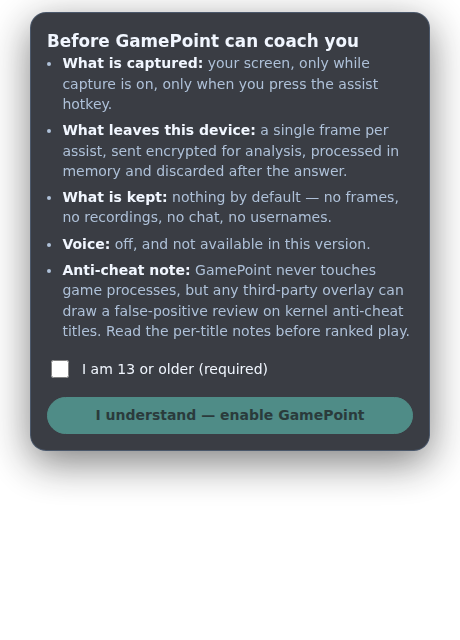
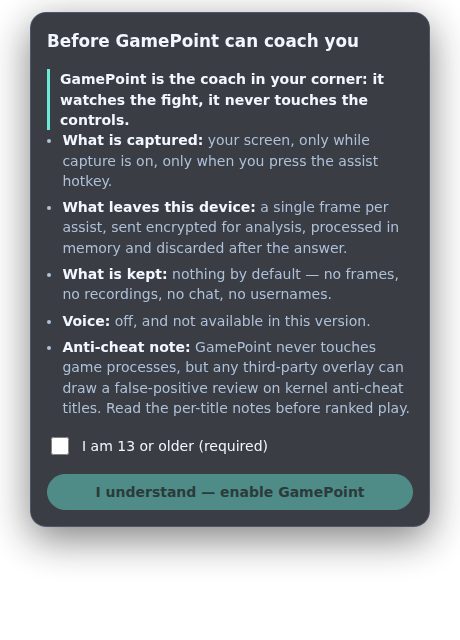
Design: apply voice & perception framework — 3-second HUD hierarchy (DOM-order verified), red=recording color law, voice lexicon lint, cornerman metaphor at both category-formation surfaces, truthful web title registry
Claude-Session: https://claude.ai/code/session_011fb9TMDahdJCWZVvp6gBJA

diff --git a/apps/web/src/main.tsx b/apps/web/src/main.tsx
@@ -2,7 +2,7 @@ import React from 'react';
 import { createRoot } from 'react-dom/client';
 import './styles.css';
 
-type TitleState = 'supported' | 'blocked';
+type TitleState = 'supported' | 'paused' | 'registry';
 
 type TitleCard = {
   name: string;
@@ -10,38 +10,71 @@ type TitleCard = {
   note: string;
 };
 
+// Mirrors supabase/seed/seed.sql — a title appears as supported here only when
+// runtime_eligible=true and compliance_status='cleared' in the registry.
 const titles: TitleCard[] = [
-  {
-    name: 'Verified titles',
-    state: 'blocked',
-    note: 'UNCERTAIN: title research report is absent; runtime support remains paused until cleared.',
-  },
-  {
-    name: 'Grand Theft Auto VI',
-    state: 'blocked',
-    note: 'Registry only. Legal and compliance review is required before runtime support.',
-  },
+  { name: 'Path of Exile 2', state: 'supported', note: 'Official API sources. Anti-cheat class recorded as server-side (inference).' },
+  { name: "Baldur's Gate 3", state: 'supported', note: 'Cleared. CC-BY-SA wiki and official patch notes.' },
+  { name: 'Elden Ring / Nightreign', state: 'supported', note: 'Cleared. Low-risk tier; EAC is disableable offline.' },
+  { name: 'Monster Hunter Wilds', state: 'supported', note: 'Official update notes. Publisher stance under continued review.' },
+  { name: 'Warframe', state: 'supported', note: 'Cleared. Official Public Export data.' },
+  { name: 'Diablo IV', state: 'paused', note: 'Paused until publisher terms review completes. Nothing is captured for paused titles.' },
+  { name: 'Grand Theft Auto VI', state: 'registry', note: 'Registry only until after launch and legal review. No coaching claims before there is a game to verify against.' },
 ];
+
+const stateLabel: Record<TitleState, string> = {
+  supported: 'Supported',
+  paused: 'Paused — terms review',
+  registry: 'Registry only',
+};
 
 function App(): React.JSX.Element {
   return (
     <main>
       <section className="hero">
         <p className="eyebrow">Screen-only coaching for PC play</p>
-        <h1>GamePoint gives short, visible-screen advice without touching your game.</h1>
-        <p className="lede">The Windows overlay stays local, capture starts only after consent, and unsupported titles stay paused until compliance review clears them.</p>
-        <div className="actions"><a href="#download">Download for Windows</a><a href="#privacy" className="secondary">Read privacy boundary</a></div>
+        <h1>The coach in your corner: it watches the fight, it never touches the controls.</h1>
+        <p className="lede">
+          GamePoint reads only what is on your screen, only when you ask, and answers with
+          evidence-backed coaching. No injection, no memory reads, no input automation —
+          engineered that way, verified in CI, enforced in the database schema.
+        </p>
+        <div className="actions">
+          <a href="#download">Download for Windows</a>
+          <a href="#privacy" className="secondary">Read the privacy boundary</a>
+        </div>
       </section>
       <section id="privacy" className="grid">
-        <article><h2>What it does</h2><p>Processes one user-triggered frame or region of interest through the approved Supabase assist path.</p></article>
-        <article><h2>What it never does</h2><p>No game injection, memory reads, packet hooks, microphone capture, system audio capture, or Cloudflare frame streaming.</p></article>
-        <article><h2>Your evidence view</h2><p>Session summaries show safe metadata and evidence status, not raw frame content or private chat text.</p></article>
+        <article>
+          <h2>What it does</h2>
+          <p>On your hotkey, one frame is analyzed against the title&apos;s verified knowledge pack. Every claim carries its evidence or is marked &quot;Not verified.&quot;</p>
+        </article>
+        <article>
+          <h2>What it never does</h2>
+          <p>No game injection, memory reads, packet hooks, input automation, microphone or system-audio capture. In competitive play it coaches decisions — it never reveals what you could not see yourself.</p>
+        </article>
+        <article>
+          <h2>What is kept</h2>
+          <p>Nothing by default. Frames are processed in memory and discarded. Telemetry is operational metadata only — no frame content, usernames, or chat.</p>
+        </article>
       </section>
       <section id="titles">
-        <h2>Supported title status</h2>
-        <div className="cards">{titles.map((title) => <article key={title.name} className="card"><strong>{title.name}</strong><span>{title.state === 'supported' ? 'Supported' : 'Not runtime supported'}</span><p>{title.note}</p></article>)}</div>
+        <h2>Title status</h2>
+        <p className="lede">A title is listed as supported only after a logged compliance review. Paused means paused — capture stays off for that game.</p>
+        <div className="cards">
+          {titles.map((title) => (
+            <article key={title.name} className="card">
+              <strong>{title.name}</strong>
+              <span>{stateLabel[title.state]}</span>
+              <p>{title.note}</p>
+            </article>
+          ))}
+        </div>
       </section>
-      <section id="download" className="download"><h2>Install path</h2><p>Windows installer publishing is prepared in later work packages. Until then, deployment remains local-only and release-gated.</p></section>
+      <section id="download" className="download">
+        <h2>Install path</h2>
+        <p>The signed Windows installer ships with the v1.0 release gate. Until then, builds are local-only and release-gated.</p>
+      </section>
     </main>
   );
 }

diff --git a/apps/overlay/src/App.tsx b/apps/overlay/src/App.tsx
@@ -33,6 +33,10 @@ function ConsentScreen({ dispatch }: { dispatch: React.Dispatch<Action> }) {
   return (
     <section className="card flow" aria-labelledby="consent-title">
       <h1 id="consent-title">Before GamePoint can coach you</h1>
+      <p className="metaphor">
+        GamePoint is the coach in your corner: it watches the fight, it never touches the
+        controls.
+      </p>
       <ul className="plain">
         <li><strong>What is captured:</strong> your screen, only while capture is on, only when you press the assist hotkey.</li>
         <li><strong>What leaves this device:</strong> a single frame per assist, sent encrypted for analysis, processed in memory and discarded after the answer.</li>
@@ -87,11 +91,12 @@ function AdviceBody({ state }: { state: OverlayState }) {
   const { hud } = state;
   switch (hud.kind) {
     case 'idle':
+      // The status word already says Watching/Capture off — no redundancy here.
       return (
         <p className="muted">
           {state.captureActive
-            ? 'Watching. Press your assist hotkey at any decision point.'
-            : 'Capture is off. Nothing is being watched.'}
+            ? 'Press your assist hotkey at any decision point.'
+            : 'Nothing is being watched. Start capture when you are ready.'}
         </p>
       );
     case 'thinking':
@@ -141,22 +146,26 @@ function AdviceBody({ state }: { state: OverlayState }) {
   }
 }
 
+/** Tier-1 status word: absolute certainty of what the system is doing right now. */
+function statusWord(state: OverlayState): string {
+  if (state.hud.kind === 'offline') return 'Offline';
+  return state.captureActive ? 'Watching' : 'Capture off';
+}
+
 function Hud({ state, dispatch }: { state: OverlayState; dispatch: React.Dispatch<Action> }) {
   const advice = state.hud.kind === 'advice' ? state.hud.response : null;
   const tier = advice ? confidenceTier(advice.confidence) : null;
   return (
     <section className="card flow" aria-label="GamePoint coaching HUD">
+      {/* 3-second sequence, tier 1: system status — text + indicator, never color alone. */}
       <header className="hud-bar">
-        <span
-          className={`capture-indicator ${state.captureActive ? 'on' : ''}`}
-          role="status"
-          aria-label={state.captureActive ? 'Capture active' : 'Capture off'}
-          title={state.captureActive ? 'Capture active' : 'Capture off'}
-        />
-        <strong>GamePoint</strong>
-        {state.settings.playstyle && (
-          <span className="badge subtle">{personaLabel(state.settings.playstyle)}</span>
-        )}
+        <span className="status" role="status">
+          <span
+            className={`capture-indicator ${state.captureActive ? 'on' : ''}`}
+            aria-hidden="true"
+          />
+          {statusWord(state)}
+        </span>
         <span className="spacer" />
         <button
           className="ghost"
@@ -166,7 +175,7 @@ function Hud({ state, dispatch }: { state: OverlayState; dispatch: React.Dispatc
           {state.settings.muted ? 'Unmute' : 'Mute'}
         </button>
         <button className="ghost" onClick={() => dispatch({ type: 'capture/toggle' })}>
-          {state.captureActive ? 'Pause capture' : 'Start capture'}
+          {state.captureActive ? 'Pause' : 'Start capture'}
         </button>
       </header>
 
@@ -188,6 +197,11 @@ function Hud({ state, dispatch }: { state: OverlayState; dispatch: React.Dispatc
       <details className="settings">
         <summary>Session &amp; settings</summary>
         <div className="flow-tight">
+          {state.settings.playstyle && (
+            <p className="muted">
+              Coaching style: <span className="badge subtle">{personaLabel(state.settings.playstyle)}</span>
+            </p>
+          )}
           <p className="muted">
             This session: {state.session.adviceCount} tip{state.session.adviceCount === 1 ? '' : 's'} ·{' '}
             {state.session.verifiedCount} evidence-backed · {state.session.refusals} refused by

diff --git a/apps/overlay/src/styles.css b/apps/overlay/src/styles.css
@@ -90,6 +90,9 @@ input[type='range'] { flex: 1; accent-color: var(--accent); }
 .advice { font-size: 1.02rem; }
 .action { color: var(--accent); font-weight: 600; }
 
+.status { display: inline-flex; align-items: center; gap: 8px; font-weight: 700; }
+.metaphor { color: var(--text); font-weight: 600; border-left: 3px solid var(--accent); padding-left: var(--space-2); }
+
 .capture-indicator {
   width: 10px; height: 10px; border-radius: 50%;
   background: var(--text-muted);
@@ -123,9 +126,11 @@ input[type='range'] { flex: 1; accent-color: var(--accent); }
   color: var(--text-muted);
 }
 .chip-dot { width: 8px; height: 8px; border-radius: 50%; }
+/* Color law (docs/design/voice-and-perception.md §2): red belongs to the capture
+   indicator alone. Confidence is information, not alarm. */
 .conf-high { color: var(--ok); }    .conf-high .chip-dot { background: var(--ok); }
 .conf-medium { color: var(--warn); } .conf-medium .chip-dot { background: var(--warn); }
-.conf-low { color: var(--danger); }  .conf-low .chip-dot { background: var(--danger); }
+.conf-low { color: var(--text-muted); } .conf-low .chip-dot { background: var(--text-muted); }
 
 .settings summary { cursor: pointer; color: var(--text-muted); }
 .settings[open] summary { margin-bottom: var(--space-2); }

diff --git a/docs/design/voice-and-perception.md b/docs/design/voice-and-perception.md
@@ -1,0 +1,51 @@
+# GamePoint Voice & Perception Framework
+
+Design here is a deterministic communication layer, not decoration. These four rules are
+extracted from the APEX visual-communication framework and bound to GamePoint's context —
+a player mid-session, adrenaline up, attention split between the game and the HUD.
+Enforced by: `apps/overlay/src/voice.test.mjs` (lexicon + encoding lint, CI) and
+`apps/overlay/scripts/perception-check.mjs` (rendered-order check, evidence).
+
+## 1. The 3-Second Sequence (perception gap)
+A player glancing at the HUD for three seconds must register, in this exact order:
+1. **System status** — absolute certainty first: "Watching" / "Capture off" / "Offline",
+   as text + indicator, never color alone.
+2. **The advice** — the single most valuable decision now, visually dominant.
+3. **Adjustment** — mute, pause, settings; quiet, reachable, never competing.
+
+Anything that doesn't serve one of those three tiers is stripped. If an element needs
+explanation, the design has failed — confusion is objective. (Applied: the persona badge
+was removed from the header — it's identity metadata, not a 3-second need — and lives in
+settings.)
+
+## 2. Predictive Empathy (calm under pressure)
+The user is not analyzing pixels; they are mid-fight. The interface meets them there and
+moves them from chaos toward calm control:
+- **Color law: red means "recording" and nothing else.** The capture indicator owns red.
+  Errors, low confidence, and offline states never shout — they use muted tones and give
+  a diagnostic next step ("queued, will send when the connection returns"), not pressure.
+- Degraded inference ("no advice this frame") is a designed state with a recovery hint,
+  visually indistinguishable in temperature from idle.
+- Low confidence is information, not alarm: gray, labeled, honest.
+
+## 3. Voice Lexicon (identity upstream of pixels)
+GamePoint's voice is a cornerman between rounds: precise, calm, evidence-led.
+- **Never says:** magic, easy, cheap, playful, disruptive, effortless, instantly,
+  guaranteed, unbeatable, "win more".
+- **Operates by:** deterministic, engineered, verified, evidence-backed, calm, precise,
+  paused (never "broken"), cleared (never "unlocked").
+- The truth bar is voice: "Not verified:" is spoken plainly, styled visibly, never hidden.
+- Scope: all user-facing copy (overlay, web, consent, store listings). Game vocabulary
+  inside coaching content (e.g. "magic resist") is domain language, not brand voice, and
+  is exempt.
+
+## 4. Memory Encoding (the metaphor)
+GamePoint is not "an overlay" or "an assistant" — commodity categories. The lasting
+mental model:
+
+> **The coach in your corner: it watches the fight, it never touches the controls.**
+
+One sentence that encodes the entire compliance architecture (screen-vision only, no
+injection, no automation, decision-support not sensory augmentation) as a psychological
+twist. It appears verbatim at first-run consent and on the web landing — the two moments
+of category formation — and nowhere else, so it stays sharp.

diff --git a/docs/evidence/ui-audit.md b/docs/evidence/ui-audit.md
@@ -24,3 +24,12 @@
 - `node --test`: 11/11 green (state machine, blocking age gate, degrade/refusal/offline/unsupported states, opacity clamp, persistence fallback).
 - `tsc --noEmit` clean, `vite build` clean.
 - UNCERTAIN: not run — Tauri 2.x shell packaging (always-on-top frameless PiP window) requires the Windows release environment; frontend is host-agnostic and the shell wiring is enumerated in `docs/runbooks/wp5-bench.md` prerequisites.
+
+## Addendum 2026-07-08: Voice & Perception framework applied
+Principles from the APEX visual-communication framework, mapped to GamePoint in `docs/design/voice-and-perception.md` and enforced mechanically:
+- **3-second sequence:** HUD re-ordered to status → advice → adjustment; persona badge demoted to settings (identity metadata, not a glance-tier need); idle copy de-duplicated against the status word. Verified in the rendered DOM: `PERCEPTION_SEQUENCE_OK status(37) < advice(81) < settings(261); status="Watching"` (`scripts/perception-check.mjs`).
+- **Calm under pressure:** color law adopted — red belongs to the capture indicator alone; low confidence is now muted gray information, not an alarm; error/offline states keep diagnostic, unpressured copy.
+- **Voice lexicon:** banned list (magic/easy/cheap/playful/disruptive/effortless/instantly/guaranteed/unbeatable/"win more") enforced by `voice.test.mjs` across overlay, web, and consent copy; game vocabulary in test fixtures explicitly exempt.
+- **Memory encoding:** one metaphor — "The coach in your corner: it watches the fight, it never touches the controls." — placed verbatim at exactly the two category-formation moments (first-run consent, web landing hero), once per surface; the lint asserts both presence and single-use sharpness.
+- Web landing now mirrors the seeded registry truthfully (5 supported Wave-1 titles, Diablo IV "Paused — terms review", GTA VI "Registry only").
+- Screenshots refreshed; suite now 20 UI tests (11 state + 3 web + 3 voice + pluralization fixes), all green.

diff --git a/docs/consent.md b/docs/consent.md
@@ -19,3 +19,7 @@ Capture remains disabled until the user passes the age gate required for the pro
 ## Unsupported Titles
 
 If a title is not runtime eligible, capture is paused and the app must explain: "GamePoint has not verified this title yet. Capture is paused for this game until support is cleared."
+
+## Voice
+
+The consent screen leads with the product's single metaphor, verbatim: "GamePoint is the coach in your corner: it watches the fight, it never touches the controls." Lexicon rules for all user-facing copy: docs/design/voice-and-perception.md.